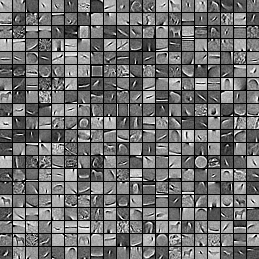
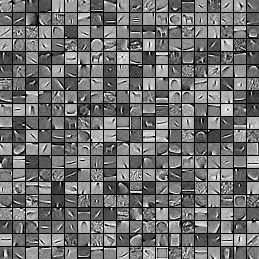
Updates

diff --git a/kmeans/minibatch_kmeans.py b/kmeans/minibatch_kmeans.py
@@ -13,7 +13,9 @@ from PIL import Image
 from data import load_cifar
 from tile_raster_images import tile_raster_images
 
-def kmeans(data, clusters=400, save_name='test.png', epochs=30):
+def kmeans(data, clusters=400, save_name='test.png', epochs=30, batch_size=300):
+
+    n_minibatch = data.shape[0] / batch_size
 
     print("[*] Initializing ...")
 
@@ -35,9 +37,12 @@ def kmeans(data, clusters=400, save_name='test.png', epochs=30):
 
 
     # 3. Loop until convergence
+    index = T.lscalar()
     # initialize cluster centers
     D_tmp = numpy.zeros((data_norm.shape[0], clusters), dtype=theano.config.floatX)
-    climin.initialize.randomize_normal(D_tmp, 0, 1)
+    for i in xrange(D_tmp.shape[1]):
+        D_tmp[:, i] = data_norm[:, numpy.random.randint(0, data_norm.shape[1])]
+    #climin.initialize.randomize_normal(D_tmp, 120, 50)
 
     D = theano.shared(D_tmp,
                       name="D",
@@ -47,36 +52,56 @@ def kmeans(data, clusters=400, save_name='test.png', epochs=30):
     # copy data to shared var for performance
     X = theano.shared(data_norm.astype(theano.config.floatX))
 
-    S = theano.shared(numpy.zeros((clusters, data_norm.shape[1]), dtype=theano.config.floatX),
+    S = theano.shared(numpy.zeros((clusters, batch_size), dtype=theano.config.floatX),
                       name="S",
                       borrow=True
                       )
 
+    c = theano.shared(numpy.zeros(clusters, dtype=theano.config.floatX),
+                      name='c',
+                      borrow=True
+                      )
+
     # setting up the functions to begin looping
-    # update S
-    big_pos = T.argmax(abs(T.dot(D.T, X)), axis=0)
-    #big_pos = T.argmax(T.dot(D.T, X), axis=0)
-    big_vals = T.dot(D.T, X)[big_pos, T.arange(big_pos.shape[0])]
+    # nearest cluster
+    x = T.dmatrix()
+    nearest, _ = theano.scan(
+        fn=lambda x, D: T.argmax(T.sum(T.sqr(D.T - x), axis=1)),
+        outputs_info=None,
+        sequences=X.T,
+        non_sequences=D
+    )
 
-    zeros_sub = T.zeros_like(S)[big_pos, T.arange(big_pos.shape[0])]
-    S_new = T.set_subtensor(zeros_sub, big_vals)
+    def update_cluster(x, number, D, c):
+        c = T.inc_subtensor(c[number], 1)
+        learning_rate = 1/c[number]
+        D = T.set_subtensor(D[:, number], D[:, number] * (1 - learning_rate) + x * learning_rate)
+        return [D, c]
 
-    update_S = theano.function([], updates=[(S, S_new)])
-    update_D = theano.function([], updates=[(D, T.dot(X, S.T) + D)])
-    normalize_D = theano.function([], updates=[(D, D / T.sqrt(T.sum(T.sqr(D), axis=0)))])
-    cost = theano.function([], outputs=T.sum(T.sqrt(T.sum(T.sqr(T.dot(D, S) - X), axis=0))))
+    ([D_new, c_new], updates) = theano.scan(
+        fn=update_cluster,
+        sequences=[X.T, nearest],
+        outputs_info=[D, c]
+    )
 
-    normalize_D()
+    train = theano.function([index], outputs=[D_new, c_new], givens={X: X[:, index * batch_size: (index + 1) * batch_size]})
+
+    # setting up the functions to calculate cost
+    S_tmp = theano.shared(numpy.zeros((clusters, data_norm.shape[1]), dtype=theano.config.floatX),
+                      name="S",
+                      borrow=True
+                      )
+
 
     print("[*] Training ...")
 
-    start_time = end_time = timeit.default_timer()
+    start_time = timeit.default_timer()
 
     for i in xrange(epochs):
-        update_S()
-        update_D()
-        normalize_D()
-        print('Training epoch %d, cost %.2f' % (i+  1, cost()))
+        for b in xrange(n_minibatch):
+            D_res, c_res = train(b)
+            D.set_value(D_res[-1])
+            c.set_value(c_res[-1])
 
     end_time = timeit.default_timer()
 
@@ -93,4 +118,4 @@ def kmeans(data, clusters=400, save_name='test.png', epochs=30):
 
 if __name__ == '__main__':
     data = load_cifar(small=True)[0][0]
-    kmeans(data, clusters=400, save_name='repflds.png')
+    kmeans(data, epochs=3, clusters=400, save_name='cifar_minibatch.png')
